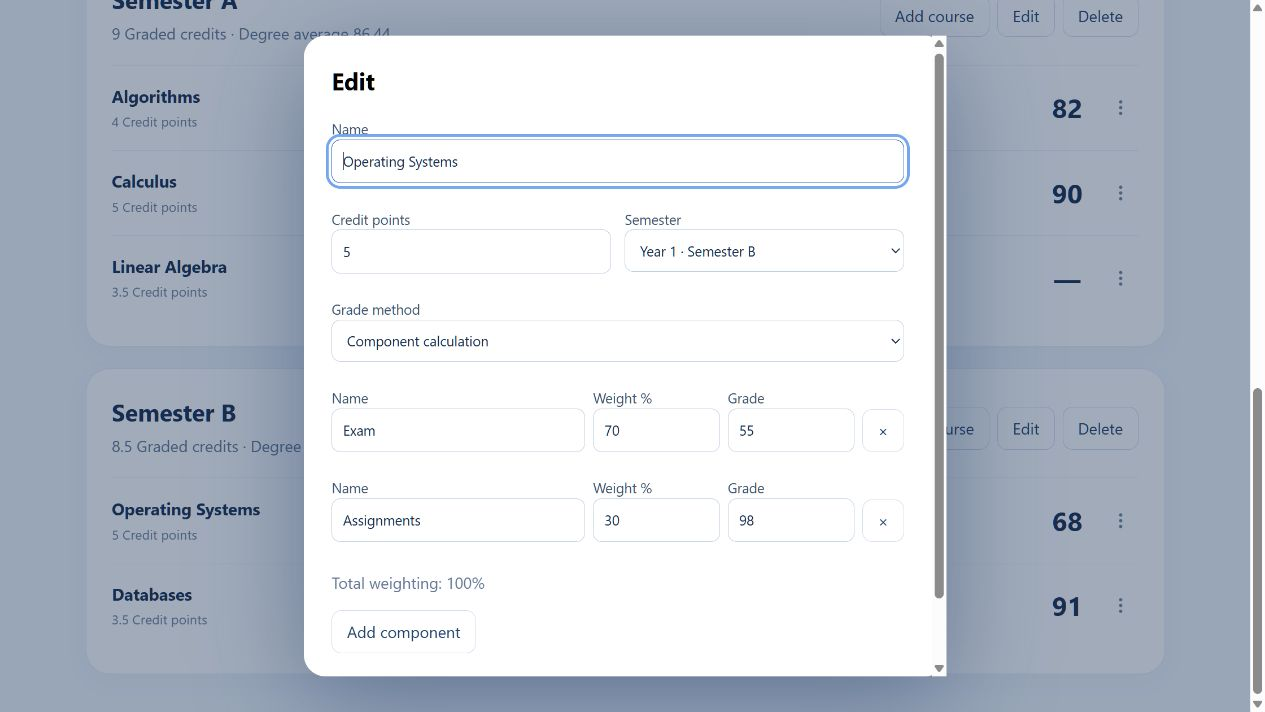
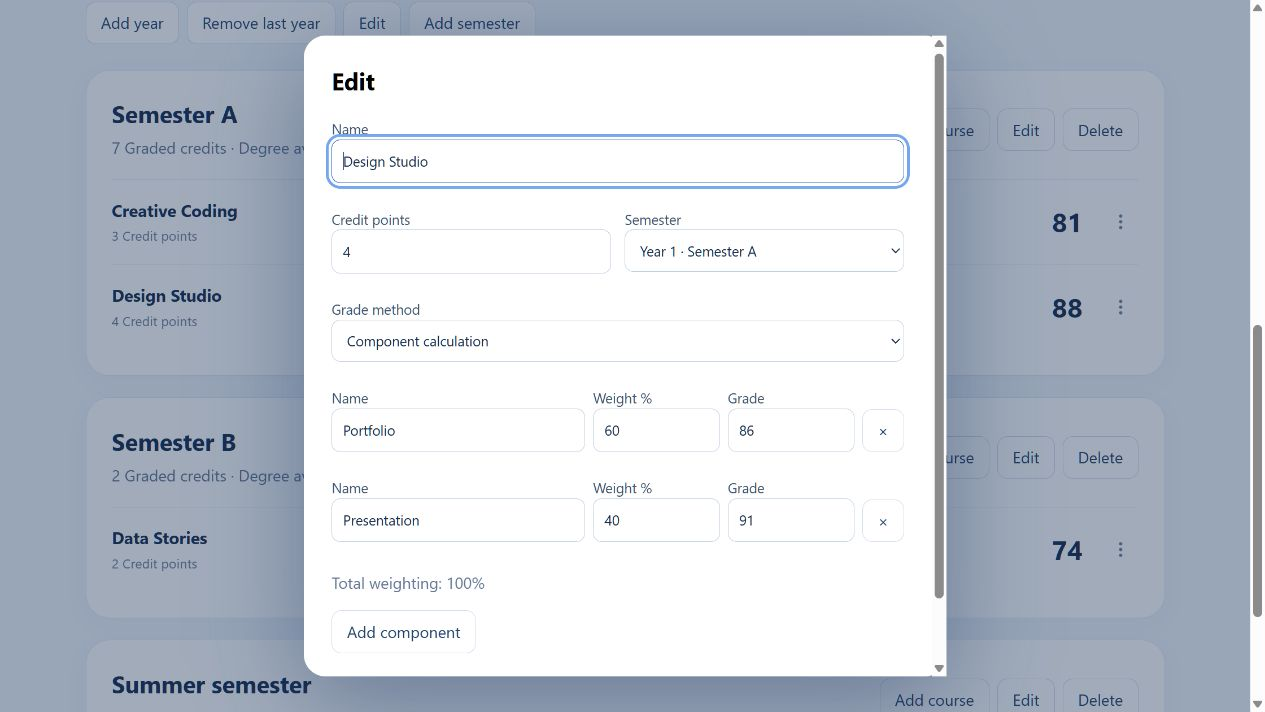
Refresh screenshots with fictional data and clear importer placeholder

diff --git a/src/DegreeGradeCalculator/wwwroot/text-import.js b/src/DegreeGradeCalculator/wwwroot/text-import.js
@@ -199,7 +199,7 @@ function semesterOptions(year, value, allowDefault) {
 function renderTextImport() {
   const draft = importDraft;
   $("#app").innerHTML =
-    `<div class="heading"><div>${button("leaveTextImport", t("back"))}<h1>${t("textImport")}</h1><p>${t("pasteHelp")}</p></div></div><section class="card"><div class="paste-heading"><h2>${t("pasteTitle")}</h2></div><details class="format-guide"><summary>${t("supportedFormats")}</summary><div><p>${t("formatsTables")}</p><pre dir="ltr">Algorithms | 4 | 82</pre><p>${t("formatsLists")}</p><pre dir="ltr">Algorithms 4 credits 82</pre><p>${t("formatsTranscripts")}</p><pre dir="auto">שנת לימודים 2024&#10;א 111112 תורת ההנמקה שיעור 3.0 3.0 77</pre><pre dir="ltr">ACADEMIC YEAR 2024&#10;Fall 111112 Mathematical Reasoning 3.0 77</pre><p>${t("formatsYears")}</p></div></details>${label(t("pasteLabel"), `<textarea id="pasteText" maxlength="50000" rows="7" dir="auto" placeholder="Algorithms | 4 | 82&#10;Operating Systems | 5 | 68">${esc(draft.text)}</textarea>`)}<div class="actions">${button("parseText", t("parseText"), 'class="primary"')}${button("clearText", t("clearText"))}</div><p id="parseError" role="alert"></p></section>${draft.result ? `<section class="card"><h2>${t("reviewTitle")}</h2><p>${t("reviewHelp")}</p><div class="import-defaults">${label(t("targetDegree"), `<select id="importDegree">${data.degrees.map((d) => `<option value="${d.id}" ${d.id === draft.degreeId ? "selected" : ""}>${esc(d.name)}</option>`).join("")}</select>`)}${label(t("defaultYear"), `<select id="defaultYear">${yearOptions(draft.defaultYear, false)}</select>`)}${label(t("defaultSemester"), `<select id="defaultSemester">${semesterOptions(draft.defaultYear, draft.defaultSemester, false)}</select>`)}</div>${calendarMappingPanel()}${draft.result.warnings.filter(w => w.code !== "calendar-years-mapped").map((w) => `<p class="import-note">${esc(t(w.code))}</p>`).join("")}${draft.result.mappingRecommended && draft.result.columnCount > 0 ? `<details class="mapping"><summary>${t("advancedMapping")}</summary><p>${t("mappingHelp")}</p><div class="import-defaults">${draft.result.columnMapping.map((m, i) => label(t("column") + " " + (i + 1), `<select data-map="${i}"><option value="">${t("ignoreColumn")}</option>${["name", "credits", "grade", "year", "semester"].map((field) => `<option value="${field}" ${m === field ? "selected" : ""}>${t(field === "credits" ? "creditPoints" : field)}</option>`).join("")}</select>`)).join("")}</div>${button("applyMapping", t("applyMapping"))}</details>` : ""}</section><form id="reviewForm"><div id="reviewRows">${draft.rows.map(reviewCard).join("")}</div></form>${draft.result.unparsedLines.length ? `<section class="card"><h3>${t("unparsedTitle")}</h3><p>${t("unparsedHelp")}</p>${draft.result.unparsedLines.map((l, i) => `<div class="unparsed-line"><pre>${esc(l.text)}</pre><small>${esc(t(l.reason))}</small>${button("recoverLine", t("addReviewRow"), `data-line="${i}"`)}</div>`).join("")}</section>` : ""}<section class="card"><h3>${t("normalizedTitle")}</h3><p id="previewError" role="status"></p><div id="duplicateWarnings"></div>${label(t("normalizedTitle"), `<textarea id="normalizedText" readonly rows="4" dir="auto"></textarea>`)}<div class="actions">${button("copyNormalized", t("copyNormalized"))}${button("reviewImport", t("importCourses"), 'class="primary"')}</div><p id="importCount" aria-live="polite"></p></section>` : ""}`;
+    `<div class="heading"><div>${button("leaveTextImport", t("back"))}<h1>${t("textImport")}</h1><p>${t("pasteHelp")}</p></div></div><section class="card"><div class="paste-heading"><h2>${t("pasteTitle")}</h2></div><details class="format-guide"><summary>${t("supportedFormats")}</summary><div><p>${t("formatsTables")}</p><pre dir="ltr">Creative Coding | 3 | 81</pre><p>${t("formatsLists")}</p><pre dir="ltr">Creative Coding 3 credits 81</pre><p>${t("formatsTranscripts")}</p><pre dir="auto">שנת לימודים 2030&#10;א 410101 יצירה דיגיטלית שיעור 3.0 3.0 81</pre><pre dir="ltr">ACADEMIC YEAR 2030&#10;Fall 410101 Creative Coding 3.0 81</pre><p>${t("formatsYears")}</p></div></details>${label(t("pasteLabel"), `<textarea id="pasteText" maxlength="50000" rows="7" dir="auto">${esc(draft.text)}</textarea>`)}<div class="actions">${button("parseText", t("parseText"), 'class="primary"')}${button("clearText", t("clearText"))}</div><p id="parseError" role="alert"></p></section>${draft.result ? `<section class="card"><h2>${t("reviewTitle")}</h2><p>${t("reviewHelp")}</p><div class="import-defaults">${label(t("targetDegree"), `<select id="importDegree">${data.degrees.map((d) => `<option value="${d.id}" ${d.id === draft.degreeId ? "selected" : ""}>${esc(d.name)}</option>`).join("")}</select>`)}${label(t("defaultYear"), `<select id="defaultYear">${yearOptions(draft.defaultYear, false)}</select>`)}${label(t("defaultSemester"), `<select id="defaultSemester">${semesterOptions(draft.defaultYear, draft.defaultSemester, false)}</select>`)}</div>${calendarMappingPanel()}${draft.result.warnings.filter(w => w.code !== "calendar-years-mapped").map((w) => `<p class="import-note">${esc(t(w.code))}</p>`).join("")}${draft.result.mappingRecommended && draft.result.columnCount > 0 ? `<details class="mapping"><summary>${t("advancedMapping")}</summary><p>${t("mappingHelp")}</p><div class="import-defaults">${draft.result.columnMapping.map((m, i) => label(t("column") + " " + (i + 1), `<select data-map="${i}"><option value="">${t("ignoreColumn")}</option>${["name", "credits", "grade", "year", "semester"].map((field) => `<option value="${field}" ${m === field ? "selected" : ""}>${t(field === "credits" ? "creditPoints" : field)}</option>`).join("")}</select>`)).join("")}</div>${button("applyMapping", t("applyMapping"))}</details>` : ""}</section><form id="reviewForm"><div id="reviewRows">${draft.rows.map(reviewCard).join("")}</div></form>${draft.result.unparsedLines.length ? `<section class="card"><h3>${t("unparsedTitle")}</h3><p>${t("unparsedHelp")}</p>${draft.result.unparsedLines.map((l, i) => `<div class="unparsed-line"><pre>${esc(l.text)}</pre><small>${esc(t(l.reason))}</small>${button("recoverLine", t("addReviewRow"), `data-line="${i}"`)}</div>`).join("")}</section>` : ""}<section class="card"><h3>${t("normalizedTitle")}</h3><p id="previewError" role="status"></p><div id="duplicateWarnings"></div>${label(t("normalizedTitle"), `<textarea id="normalizedText" readonly rows="4" dir="auto"></textarea>`)}<div class="actions">${button("copyNormalized", t("copyNormalized"))}${button("reviewImport", t("importCourses"), 'class="primary"')}</div><p id="importCount" aria-live="polite"></p></section>` : ""}`;
   if (draft.result) {
     validateReview();
     refreshImportPreview();

diff --git a/tests/DegreeGradeCalculator.Tests/TranscriptTests.cs b/tests/DegreeGradeCalculator.Tests/TranscriptTests.cs
@@ -8,22 +8,22 @@ public class TranscriptTests
     [Fact]
     public void EnglishCompletedExemptionKeepsCreditsButNoNumericGrade()
     {
-        var row = Assert.Single(new TextCourseParser().Parse(new("Fall 899996 Exemption for Social Activity Volunteering Lecture 2.0 Completed")).Courses);
-        Assert.Equal("Exemption for Social Activity Volunteering", row.Name);
+        var row = Assert.Single(new TextCourseParser().Parse(new("Fall 899996 Demo Community Activity Lecture 2.0 Completed")).Courses);
+        Assert.Equal("Demo Community Activity", row.Name);
         Assert.Equal(2, row.Credits); Assert.Null(row.Grade);
         Assert.Equal("Completed", row.RawValues["grade"]);
         Assert.Contains("non-numeric-status", row.Warnings);
         Assert.DoesNotContain("invalid-grade", row.Warnings);
     }
     [Theory]
-    [InlineData("א 150034 סדנה: הנדסת תוכנה סמינר/סדנא 6.0 6.0 93", "סדנה: הנדסת תוכנה", 6, 93)]
-    [InlineData("א 899996 פטור בגין פעילות חברתית-התנדבותית שיעור 2.0 2.0 השלים חובותיו", "פטור בגין פעילות חברתית-התנדבותית", 2, null)]
-    [InlineData("ב 960006 מיומנויות נדרשות בעולם התעסוקה שיעור 2.0 טרם", "מיומנויות נדרשות בעולם התעסוקה", 2, null)]
-    [InlineData("ק 142203 פיתוח תוכנה מבוסס ג'אווה שיעור 4.0 טרם", "פיתוח תוכנה מבוסס ג'אווה", 4, null)]
-    [InlineData("ק 142234 מבוא לפיתוח משחקים שיעור 3.0 טרם", "מבוא לפיתוח משחקים", 3, null)]
-    [InlineData("א 131111 סיבוכיות שיעור 4.0 טרם", "סיבוכיות", 4, null)]
-    [InlineData("א 141418 מבוא לתקשורת מחשבים שיעור 4.0 טרם", "מבוא לתקשורת מחשבים", 4, null)]
-    [InlineData("א 142239 מבוא לקריפטוגרפיה שימושית שיעור 3.0 טרם", "מבוא לקריפטוגרפיה שימושית", 3, null)]
+    [InlineData("א 150034 סדנה: עיצוב מדיה סמינר/סדנא 6.0 6.0 91", "סדנה: עיצוב מדיה", 6, 91)]
+    [InlineData("א 899996 פעילות קהילתית לדוגמה שיעור 2.0 2.0 השלים חובותיו", "פעילות קהילתית לדוגמה", 2, null)]
+    [InlineData("ב 960006 מיומנויות יצירתיות לדוגמה שיעור 2.0 טרם", "מיומנויות יצירתיות לדוגמה", 2, null)]
+    [InlineData("ק 142203 עיצוב אינטראקטיבי מבוסס ג'אווה שיעור 4.0 טרם", "עיצוב אינטראקטיבי מבוסס ג'אווה", 4, null)]
+    [InlineData("ק 142234 מבוא ליצירה במשחקים שיעור 3.0 טרם", "מבוא ליצירה במשחקים", 3, null)]
+    [InlineData("א 131111 יצירה מתקדמת שיעור 4.0 טרם", "יצירה מתקדמת", 4, null)]
+    [InlineData("א 141418 מבוא לתקשורת חזותית שיעור 4.0 טרם", "מבוא לתקשורת חזותית", 4, null)]
+    [InlineData("א 142239 מבוא לאמנות שימושית שיעור 3.0 טרם", "מבוא לאמנות שימושית", 3, null)]
     public void WorkshopAndStatusRows(string line, string name, int credits, int? grade)
     {
         var result = new TextCourseParser().Parse(new("שנת לימודים 2026\n" + line));
@@ -33,8 +33,8 @@ public class TranscriptTests
         if (grade is null) Assert.Contains("non-numeric-status", row.Warnings);
     }
     [Theory]
-    [InlineData("Fall 131111 Complexity Studies Lecture No grade", "Complexity Studies")]
-    [InlineData("Fall 141418 Introduction to Computer Communication Lecture No grade", "Introduction to Computer Communication")]
+    [InlineData("Fall 131111 Advanced Creative Studies Lecture No grade", "Advanced Creative Studies")]
+    [InlineData("Fall 141418 Introduction to Visual Communication Lecture No grade", "Introduction to Visual Communication")]
     public void EnglishNoGradeWithoutCredits(string line, string name)
     {
         var result = new TextCourseParser().Parse(new("ACADEMIC YEAR 2027\n" + line));
@@ -48,13 +48,13 @@ public class TranscriptTests
     [InlineData("שנת לימודים 2024 - שנה ב", 2)]
     public void ExplicitCalendarYearMapping(string heading, int expected)
     {
-        var row = Assert.Single(new TextCourseParser().Parse(new(heading + "\nFall 111112 Math 3.0 77")).Courses);
+        var row = Assert.Single(new TextCourseParser().Parse(new(heading + "\nFall 111112 Math 3.0 81")).Courses);
         Assert.Equal(expected, row.Year); Assert.Equal("2024", row.RawValues["calendarYear"]);
     }
     [Fact]
     public void CalendarYearsInTableAreSuggestedWithGapsPreserved()
     {
-        var result = new TextCourseParser().Parse(new("Name|Credits|Grade|Year|Semester\nMath|3|77|2024|Fall\nOS|4|80|2026|Spring"));
+        var result = new TextCourseParser().Parse(new("Name|Credits|Grade|Year|Semester\nMath|3|81|2024|Fall\nOS|4|78|2026|Spring"));
         Assert.Equal(1, result.Courses[0].Year); Assert.Equal(3, result.Courses[1].Year);
         Assert.Equal("2026", result.Courses[1].RawValues["calendarYear"]);
         Assert.DoesNotContain("unknown-year", result.Courses[1].Warnings);
@@ -64,60 +64,60 @@ public class TranscriptTests
     {
         var result = new TextCourseParser().Parse(new("""
             ACADEMIC YEAR 2024
-            Fall 111112 Mathematical Reasoning 3.0 77
-            Fall 111113 Calculus 1 6.0 69
-            Fall 111115 Introduction to Computer Science 6.0 76
-            Spring 111111 Introduction to Logic and Set Theory 4.0 66
-            Spring 111117 Linear algebra 1 6.0 85
-            Spring 111124 Advanced Programming in C Language 4.0 76
-            Spring 111126 Calculus 2 47
-            Summer 111121 Discrete Mathematics 53
-            Summer 111123 Introduction To Probability Theory 4.0 63
-            Summer 111126 Calculus 2 Lecture 4.0 80
+            Fall 111112 Creative Coding 3.0 81
+            Fall 111113 Visual Design 1 6.0 72
+            Fall 111115 Introduction to Creative Media 6.0 83
+            Spring 111111 Design Thinking 4.0 74
+            Spring 111117 Visual Stories 1 6.0 86
+            Spring 111124 Creative Work in C Language 4.0 83
+            Spring 111126 Visual Design 2 43
+            Summer 111121 Color Studio 56
+            Summer 111123 Introduction to Digital Arts 4.0 63
+            Summer 111126 Visual Design 2 Lecture 4.0 78
             """));
         Assert.Equal(10, result.Courses.Count); Assert.Empty(result.UnparsedLines);
         Assert.All(result.Courses, c => Assert.Equal(1, c.Year));
-        Assert.Equal("Calculus 1", result.Courses[1].Name);
-        Assert.Equal("Calculus 2", result.Courses[6].Name);
-        Assert.Equal(47, result.Courses[6].Grade); Assert.Null(result.Courses[6].Credits);
-        Assert.Null(result.Courses[7].Credits); Assert.Equal(53, result.Courses[7].Grade);
+        Assert.Equal("Visual Design 1", result.Courses[1].Name);
+        Assert.Equal("Visual Design 2", result.Courses[6].Name);
+        Assert.Equal(43, result.Courses[6].Grade); Assert.Null(result.Courses[6].Credits);
+        Assert.Null(result.Courses[7].Credits); Assert.Equal(56, result.Courses[7].Grade);
         Assert.Contains("invalid-credits", result.Courses[6].Warnings);
         Assert.Contains("invalid-credits", result.Courses[7].Warnings);
-        Assert.Equal("Calculus 2", result.Courses[9].Name);
-        Assert.Equal(4, result.Courses[9].Credits); Assert.Equal(80, result.Courses[9].Grade);
+        Assert.Equal("Visual Design 2", result.Courses[9].Name);
+        Assert.Equal(4, result.Courses[9].Credits); Assert.Equal(78, result.Courses[9].Grade);
         Assert.Equal("Summer", result.Courses[9].Semester);
     }
     public const string Sample = """
         שנת לימודים 2024
 
-        א 111112 תורת ההנמקה שיעור 3.0 3.0 77
-        א 111113 חשבון דיפרנציאלי ואינטגרלי 1 שיעור 6.0 6.0 69
-        א 111115 מבוא למדעי המחשב שיעור 6.0 6.0 76
-        ב 111111 מבוא ללוגיקה ולתורת הקבוצות שיעור 4.0 4.0 66
-        ב 111117 אלגברה לינארית 1 שיעור 6.0 6.0 85
-        ב 111124 תכנות מתקדם בשפת C שיעור 4.0 4.0 76
-        ב 111126 חשבון דיפרנציאלי ואינטגרלי 2 שיעור 4.0 47
-        ק 111121 מתמטיקה בדידה שיעור 4.0 53
-        ק 111123 מבוא להסתברות שיעור 4.0 4.0 63
-        ק 111126 חשבון דיפרנציאלי ואינטגרלי 2 שיעור 4.0 4.0 80
+        א 111112 יצירה דיגיטלית שיעור 3.0 3.0 81
+        א 111113 עיצוב חזותי 1 שיעור 6.0 6.0 72
+        א 111115 מבוא למדיה יצירתית שיעור 6.0 6.0 83
+        ב 111111 חשיבה עיצובית שיעור 4.0 4.0 74
+        ב 111117 סיפורים חזותיים 1 שיעור 6.0 6.0 86
+        ב 111124 יצירה אינטראקטיבית בשפת C שיעור 4.0 4.0 83
+        ב 111126 עיצוב חזותי 2 שיעור 4.0 43
+        ק 111121 מעבדת צבע שיעור 4.0 56
+        ק 111123 מבוא לאמנות דיגיטלית שיעור 4.0 4.0 63
+        ק 111126 עיצוב חזותי 2 שיעור 4.0 4.0 78
 
         שנת לימודים 2025
 
-        א 111121 מתמטיקה בדידה שיעור 4.0 4.0 90
-        א 121114 אלגברה ליניארית 2 שיעור 4.0 4.0 97
-        א 121115 מבנה מחשבים שיעור 4.0 4.0 60
-        א 121119 תכנות מכוון עצמים ושפת ++C שיעור 4.0 4.0 79
-        92 2.0 2.0 שיעור Hacking Tech English 800011 א
-        ב 121111 מבני נתונים שיעור 4.0 4.0 67
-        ב 121118 ארכיטקטורת מחשבים שיעור 4.0 4.0 60
-        ב 121150 כלים פרקטיים לתעשייה - בסיס שיעור 1.0 1.0 96
-        ב 142169 תכנות מונחה עצמים בסביבת דוט-נט ושפת #C שיעור 4.0 4.0 88
-        ק 121120 אלגוריתמים שיעור 4.0 66
-        ק 142180 מבוא לפונקציות מרוכבות שיעור 4.0 4.0 98
+        א 111121 מעבדת צבע שיעור 4.0 4.0 89
+        א 121114 סיפורים חזותיים 2 שיעור 4.0 4.0 94
+        א 121115 מבנה יצירות שיעור 4.0 4.0 62
+        א 121119 עיצוב אינטראקטיבי ושפת ++C שיעור 4.0 4.0 84
+        87 2.0 2.0 שיעור Creative Studio English 800011 א
+        ב 121111 מבני סיפורים שיעור 4.0 4.0 73
+        ב 121118 ארכיטקטורת עיצוב שיעור 4.0 4.0 62
+        ב 121150 כלים יצירתיים למדיה - בסיס שיעור 1.0 1.0 95
+        ב 142169 מעבדת יצירה בסביבת #C שיעור 4.0 4.0 85
+        ק 121120 טכניקות יצירה שיעור 4.0 74
+        ק 142180 מבוא לאנימציה שיעור 4.0 4.0 99
         """;
 
     [Fact]
-    public void FullUserTranscriptExtractsEveryCourseAndDestination()
+    public void FictionalTranscriptExtractsEveryCourseAndDestination()
     {
         var result = new TextCourseParser().Parse(new(Sample));
         Assert.Equal("academic-transcript", result.DetectedFormat);
@@ -127,24 +127,24 @@ public class TranscriptTests
         Assert.Equal(10, result.Courses.Count(c => c.Year == 1));
         Assert.Equal(11, result.Courses.Count(c => c.Year == 2));
         Assert.Equal(new[] { "A", "A", "A", "B", "B", "B", "B", "Summer", "Summer", "Summer", "A", "A", "A", "A", "A", "B", "B", "B", "B", "Summer", "Summer" }, result.Courses.Select(c => c.Semester));
-        Assert.Equal(new decimal?[] {77,69,76,66,85,76,47,53,63,80,90,97,60,79,92,67,60,96,88,66,98}, result.Courses.Select(c => c.Grade));
+        Assert.Equal(new decimal?[] {81,72,83,74,86,83,43,56,63,78,89,94,62,84,87,73,62,95,85,74,99}, result.Courses.Select(c => c.Grade));
         Assert.Equal(new decimal?[] {3,6,6,4,6,4,4,4,4,4,4,4,4,4,2,4,4,1,4,4,4}, result.Courses.Select(c => c.Credits));
         var english = result.Courses[14];
-        Assert.Equal("Hacking Tech English", english.Name);
+        Assert.Equal("Creative Studio English", english.Name);
         Assert.Equal("800011", english.RawValues["courseCode"]);
-        Assert.Equal("חשבון דיפרנציאלי ואינטגרלי 2", result.Courses[6].Name);
-        Assert.Equal("תכנות מונחה עצמים בסביבת דוט-נט ושפת #C", result.Courses[18].Name);
+        Assert.Equal("עיצוב חזותי 2", result.Courses[6].Name);
+        Assert.Equal("מעבדת יצירה בסביבת #C", result.Courses[18].Name);
         Assert.Contains(result.Warnings, w => w.Code == "calendar-years-mapped");
     }
     [Fact]
     public void CalendarYearsUseChronologicalOrderEvenWhenSectionsAreReversed()
     {
-        var rows = new TextCourseParser().Parse(new("שנת לימודים 2025\nא 121111 Math שיעור 4 80\nשנת לימודים 2024\nב 111111 OS שיעור 3 90")).Courses;
+        var rows = new TextCourseParser().Parse(new("שנת לימודים 2025\nא 121111 Math שיעור 4 78\nשנת לימודים 2024\nב 111111 OS שיעור 3 89")).Courses;
         Assert.Equal(2, rows[0].Year); Assert.Equal(1, rows[1].Year);
     }
     [Theory]
-    [InlineData("א 111111 Math שיעור 4 3 80")]
-    [InlineData("80 3 4 שיעור Math 111111 א")]
+    [InlineData("א 111111 Math שיעור 4 3 78")]
+    [InlineData("78 3 4 שיעור Math 111111 א")]
     public void DifferentCreditValuesRequireReview(string text)
     {
         var row = Assert.Single(new TextCourseParser().Parse(new(text)).Courses);

diff --git a/README.md b/README.md
@@ -36,9 +36,9 @@ The database is `%LOCALAPPDATA%\DegreeGradeCalculator\grades.db`. Replacing the 
 
 Choose **Import grades** on the dashboard or degree page. Paste copied text and select **Parse text**, then review course names, credits, grades, years, and semesters in editable cards. Choose a target degree and default year/semester; explicit row destinations take priority. Exclude unwanted rows, fix highlighted fields, and confirm **Import courses** to save. Parsing and preview never write to the database.
 
-Supported formats include pipes (`Algorithms | 4 | 82`), CSV including quoted names, spreadsheet tabs, semicolons, spaced columns, `Algorithms 4 credits 82`, and `Algorithms - 4 - 82`. English/Hebrew headers and year/semester names are recognized. Decimal credits and blank grades are supported. Decimal commas work in non-comma-separated cells or quoted CSV cells.
+Supported formats include pipes (`Creative Coding | 3 | 81`), CSV including quoted names, spreadsheet tabs, semicolons, spaced columns, `Creative Coding 3 credits 81`, and `Creative Coding - 3 - 81`. English/Hebrew headers and year/semester names are recognized. Decimal credits and blank grades are supported. Decimal commas work in non-comma-separated cells or quoted CSV cells.
 
-Hebrew and English academic transcripts are also supported: `שנת לימודים 2024` / `ACADEMIC YEAR 2024`, course codes, א/ב/ק or Fall/Spring/Summer, optional repeated credits, and reversed English rows. Calendar-year sections and table year cells receive suggested degree-year destinations, preserving year gaps. Use the editable Academic year mapping controls to set, for example, 2024 → Year 2 and 2025 → Year 3 for all courses in those years. Explicit headings such as `2024 - first year` are recognized. Missing or ambiguous credits remain blank and require correction. The paste screen includes a collapsed supported-format guide.
+Hebrew and English academic transcripts are also supported: `שנת לימודים 2030` / `ACADEMIC YEAR 2030`, course codes, א/ב/ק or Fall/Spring/Summer, optional repeated credits, and reversed English rows. Calendar-year sections and table year cells receive suggested degree-year destinations, preserving year gaps. Use the editable Academic year mapping controls to set, for example, 2030 → Year 2 and 2031 → Year 3 for all courses in those years. Explicit headings such as `2030 - first year` are recognized. Missing or ambiguous credits remain blank and require correction. The paste screen includes a collapsed supported-format guide.
 
 This is a conservative local heuristic parser, not arbitrary natural-language understanding. Uncertain values retain their original text and warnings; unparsed lines remain visible and can become manual review cards. An advanced column-mapping fallback appears when needed. Unknown destinations can use defaults; destination years and semesters must already exist. Likely duplicates in the same semester can be skipped or imported as additional courses, never overwritten. The read-only normalized preview can be copied. Limits: 50,000 characters and 1,000 non-empty lines per paste.
 
@@ -89,3 +89,5 @@ Captured from the running application with fictitious demo data. No database or 
 ![Adjustable academic year mapping](screenshots/year-mapping.png)
 
 Transcript course types include lectures, seminars and workshops. Statuses "טרם", "השלים חובותיו", "No grade" and "Completed" produce blank numeric grades (excluded from averages), with the status preserved in the review source. Missing credits still require correction.
+
+All screenshots and format examples use fictional demonstration courses and invented grades. The import paste box starts empty; examples are kept in the expandable guide.

diff --git a/VERIFICATION.md b/VERIFICATION.md
@@ -3,8 +3,8 @@
 Verified on Windows x64 with .NET SDK 10.0.401.
 
 - Solution build: zero warnings or errors.
-- 107 xUnit tests: original calculation/storage coverage plus deterministic parsing, supported delimiters and headers, Hebrew/English destinations, preserved invalid input, size limits, manual mapping, normalized output, bulk defaults/overrides, exclusion, duplicates, atomic import, and a live HTTP test proving parse/preview are read-only and import requires confirmation.
-- 5 browser-logic tests: exact decimal math, exclusions, component weighting, simulated propagation/isolation, distribution boundaries.
+- 108 xUnit tests: original calculation/storage coverage plus deterministic parsing, supported delimiters and headers, Hebrew/English destinations, preserved invalid input, size limits, manual mapping, normalized output, bulk defaults/overrides, exclusion, duplicates, atomic import, and a live HTTP test proving parse/preview are read-only and import requires confirmation.
+- 6 browser-logic tests: exact decimal math, exclusions, component weighting, simulated propagation/isolation, distribution boundaries.
 - Self-contained Windows x64 publish includes the runtime, SQLite native library, and all browser assets.
 - Browser checks: degree creation, direct course editing, component course creation, warnings for excess weights, vertical semesters, simulation controls, immediate exact component entry, restoration after simulation, Hebrew RTL, English LTR, and a 390-pixel mobile layout.
 - Live release checks: automatic loopback-port selection, persisted real component grades after restart, backup validation/restoration, malformed backup rejection, static assets, and a windowless executable launch. Browser launch completed without recording an error.
@@ -15,3 +15,5 @@ Verified on Windows x64 with .NET SDK 10.0.401.
 Reference Android screenshots were not attached; the implementation follows the written layout specification. No cloud sync, accounts, or hypothetical-course creation is implemented, as requested.
 
 Calendar-year mapping controls verified in the browser: 2024 → Year 2 and 2025 → Year 3 update the course cards and normalized output without saving.
+
+All eleven screenshots were recaptured using an isolated fictional Digital Arts demo. Example transcript course names and grades were replaced with invented data, and the import textarea has no placeholder.
